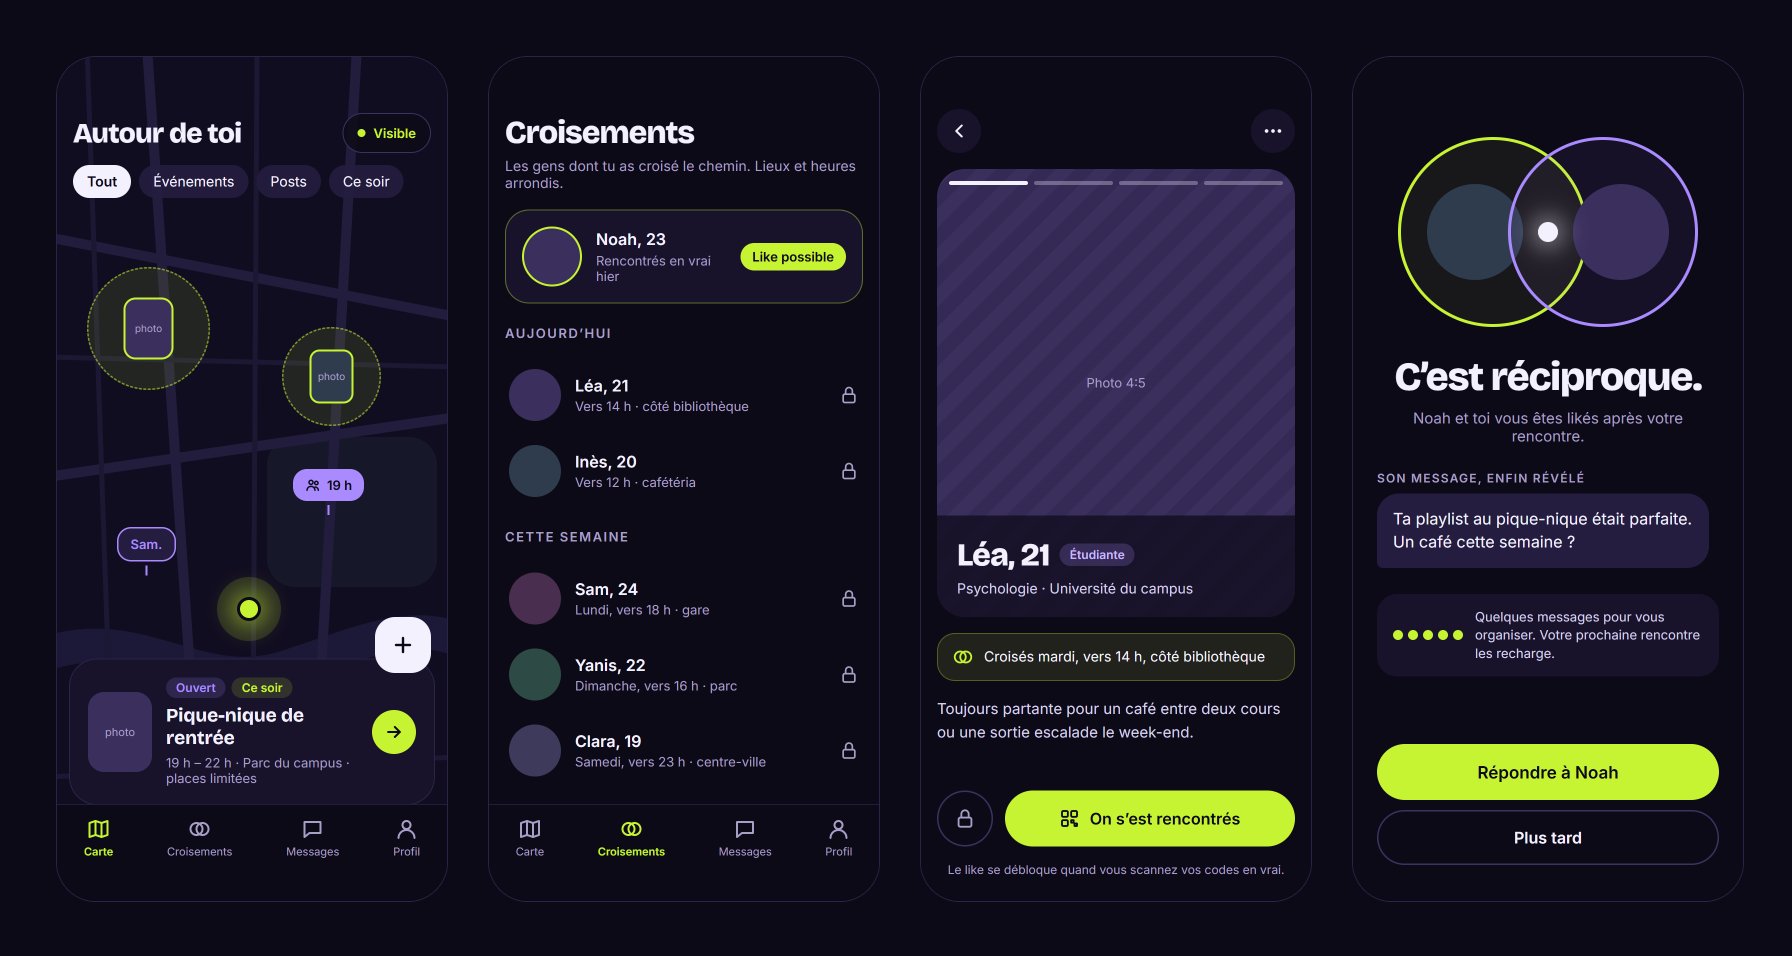
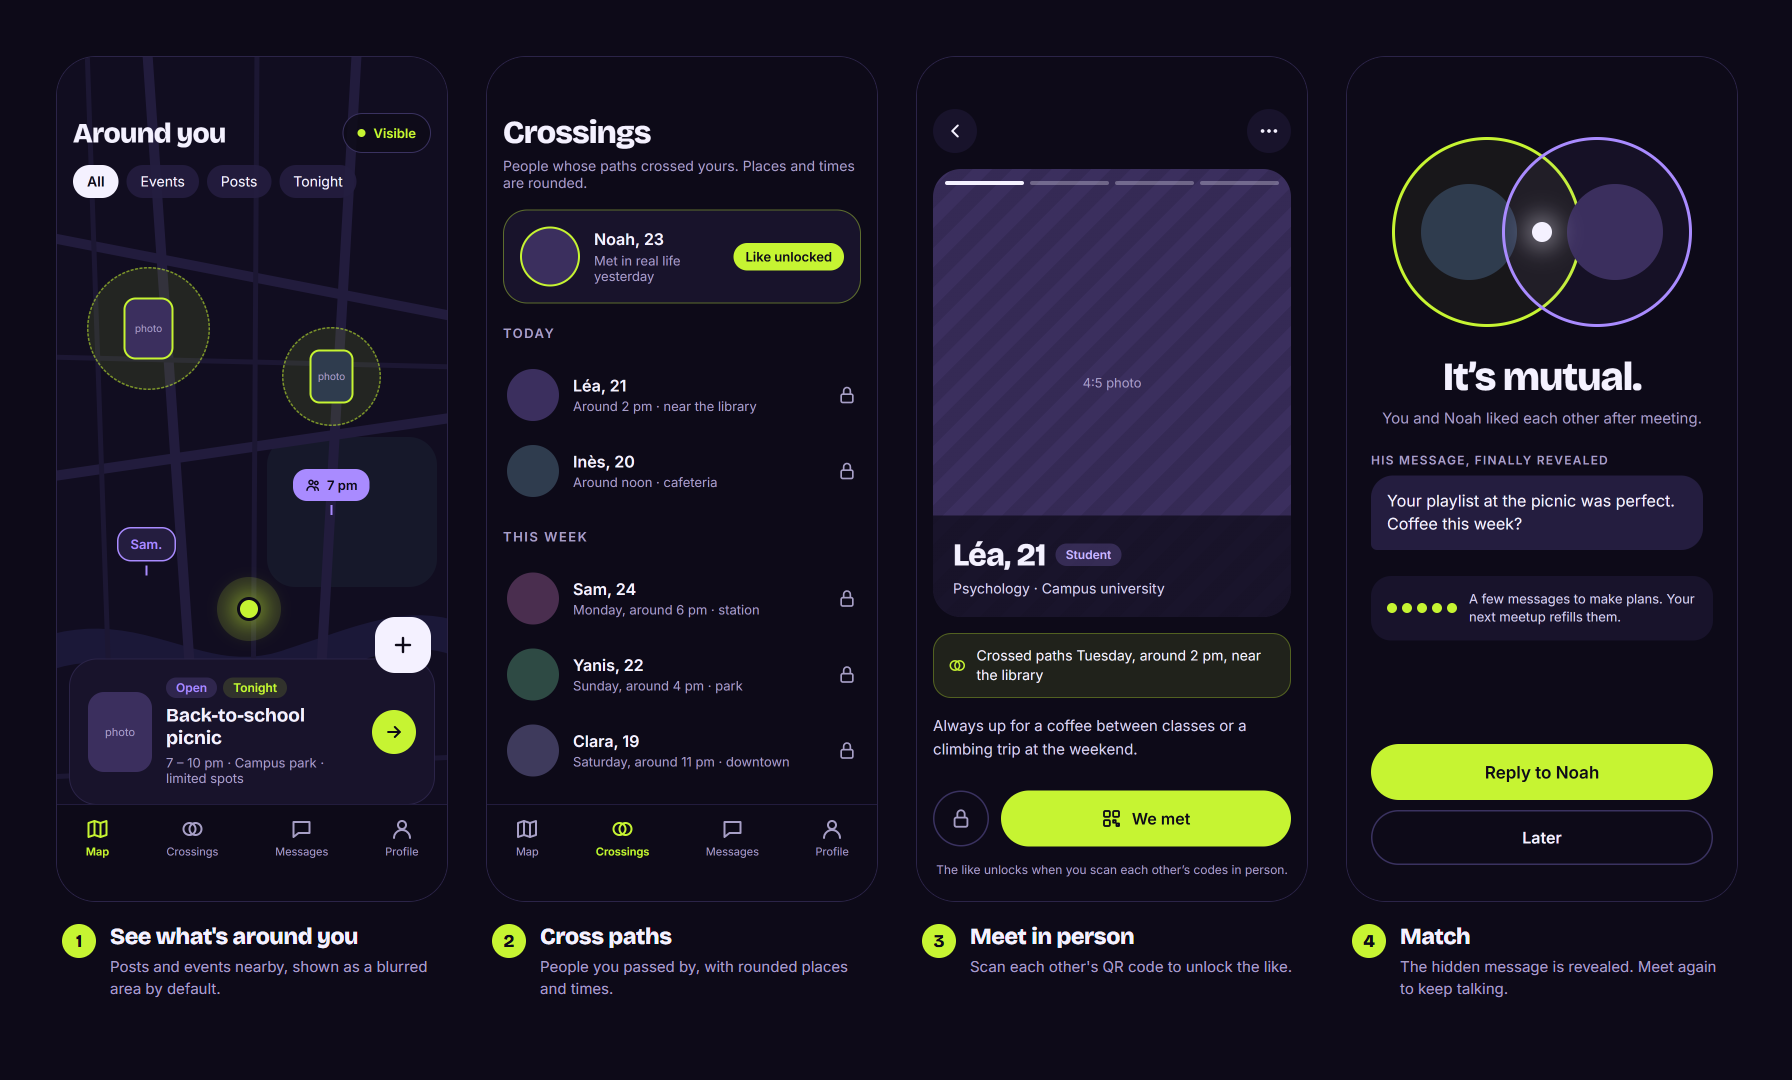
Translate the README mockups into English
Render the mockups again with English text, to match the README. The
showcase now has a numbered caption under each screen, so that it reads
on its own, and the README list uses the same four steps.

diff --git a/README.md b/README.md
@@ -14,7 +14,7 @@ and a like that only unlocks after a real meetup.
 
 <br>
 
-<img src="docs/images/screens.png" alt="Four app screens: the map around you, the list of encounters, a profile with the like locked until a real meetup, and a match" width="100%">
+<img src="docs/images/screens.png" alt="Four app screens in four steps: 1. see what is around you on the map, 2. cross paths with people nearby, 3. meet in person to unlock the like, 4. match" width="100%">
 
 <sub>Design mockups with fictional content. See <a href="#design-preview">Design preview</a>.</sub>
 
@@ -66,11 +66,11 @@ The direction, called *Night neon*: a deep violet background rather than pure bl
 
 <img src="docs/images/visual-identity.png" alt="Visual identity board: logo, colours, typography, components and design rules" width="100%">
 
-The screens above follow a meetup from start to finish:
+The four screens at the top follow a meetup from start to finish:
 
-1. **Map**: posts and events around you, always shown as a blurred area by default.
-2. **Encounters**: people you crossed paths with, with rounded place and time. The like stays locked.
-3. **Profile**: the like unlocks only after a real meetup, confirmed by scanning each other's QR code.
+1. **See what's around you**: posts and events nearby, always shown as a blurred area by default.
+2. **Cross paths**: people you passed by, with rounded places and times. The like stays locked.
+3. **Meet in person**: the like unlocks only after a real meetup, confirmed by scanning each other's QR code.
 4. **Match**: the message written with the like is revealed, and a message quota encourages meeting again.
 
 ---
